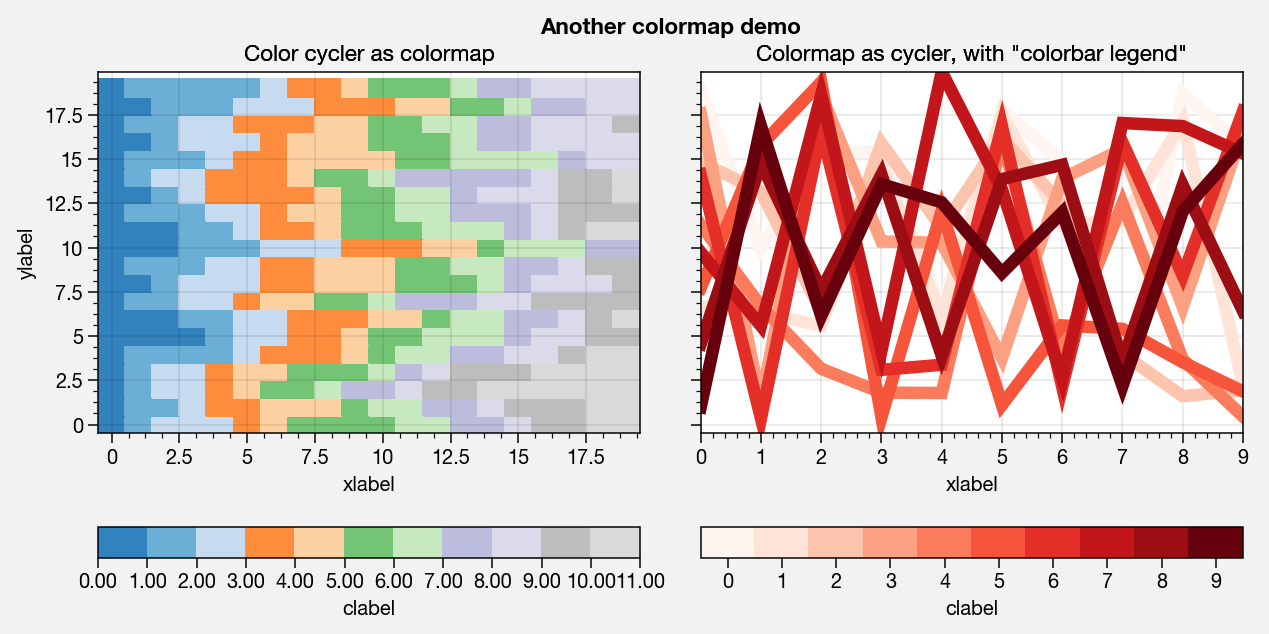
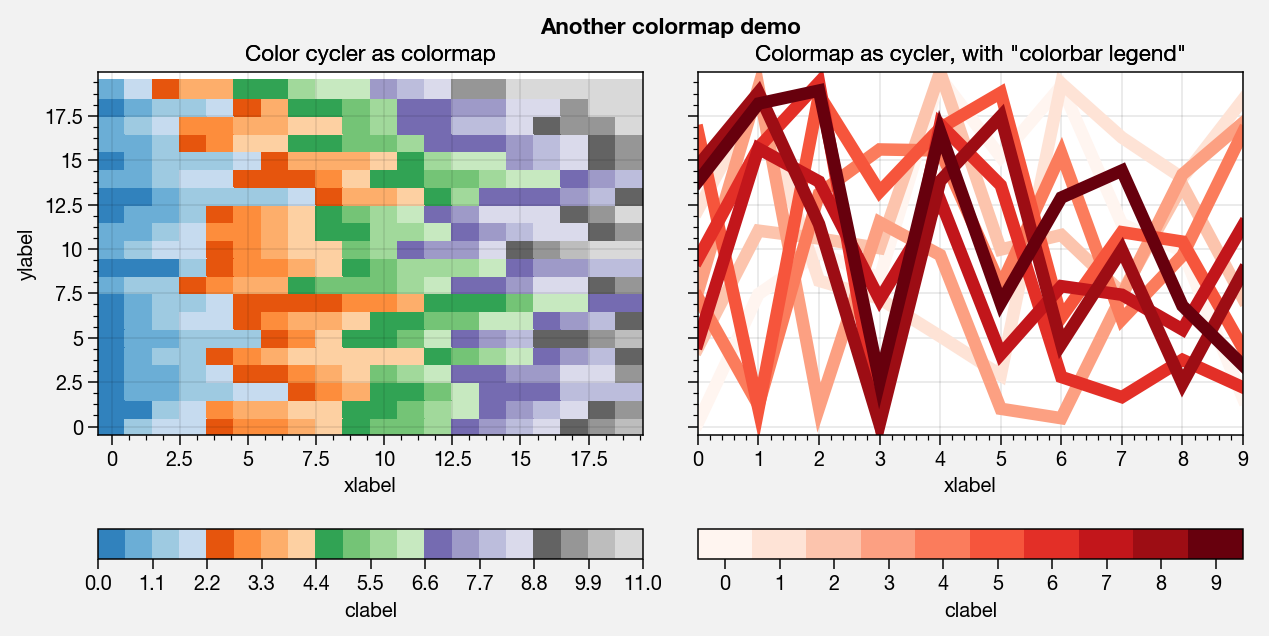
Minor bugfix, docs

diff --git a/proplot/axes.py b/proplot/axes.py
@@ -3295,7 +3295,7 @@ def colorbar_factory(ax, mappable, values=None,
         clabel=None, label=None,
         ctickminor=False, tickminor=None,
         cgrid=False, grid=None,
-        ticklocation=None, cticklocation=None, ctickdir=None, tickdir='out',
+        ticklocation=None, cticklocation=None, ctickdir=None, tickdir=None,
         cticks=None, ticks=None, clocator=None, locator=None,
         cminorticks=None, minorticks=None, cminorlocator=None, minorlocator=None,
         clocator_kw={}, locator_kw=None, cminorlocator_kw={}, minorlocator_kw=None,
@@ -3346,7 +3346,7 @@ def colorbar_factory(ax, mappable, values=None,
         sizes to match, because the `extendlength` units are *relative*.
     ctickdir, ticklocation, cticklocation
         Aliases for `tickdir`.
-    tickdir : {'out', 'in'}, optional
+    tickdir : {'bottom', 'top', 'left', 'right'}, optional
         Whether to draw tick marks pointing inside or outside.
     clabel, ctickminor, cgrid
         Aliases for `label`, `tickminor`, `grid`.
@@ -3562,7 +3562,6 @@ def colorbar_factory(ax, mappable, values=None,
     extendlength = utils.units(_default(extendlength, rc.get('colorbar.extendfull')))
     extendlength = extendlength/(scale - 2*extendlength)
     ticklocation = tickdir or ctickdir or ticklocation
-    ticklocation = {'out':'outer', 'in':'inner'}.get(ticklocation, ticklocation)
     kwargs.update({'ticks':locators[0], 'format':cformatter,
                    'ticklocation':ticklocation,
                    'extendfrac':extendlength})

diff --git a/docs/showcase.rst b/docs/showcase.rst
@@ -1754,8 +1754,8 @@ for details.
     import numpy as np
     plot.nbsetup()
     f, axs = plot.subplots(ncols=2, bottomcolorbars=[1,2], span=False, axwidth=3, aspect=1.5)
-    m = axs[0].pcolormesh(np.random.rand(20,20).cumsum(axis=1), cmap='set5', levels=np.linspace(0,11,12))
-    f.bottompanel[0].colorbar(m, label='clabel', formatter='%.2f')
+    m = axs[0].pcolormesh(np.random.rand(20,20).cumsum(axis=1), cmap='set5', levels=np.linspace(0,11,21))
+    f.bottompanel[0].colorbar(m, label='clabel', formatter='%.1f')
     lines = axs[1].plot(20*np.random.rand(10,10), cycle=('reds', 10), lw=5)
     axs.format(xlabel='xlabel', ylabel='ylabel', suptitle='Another colormap demo')
     axs[0].format(title='Color cycler as colormap')
@@ -1770,7 +1770,7 @@ for details.
 
 .. image:: showcase/showcase_116_1.png
    :width: 634px
-   :height: 317px
+   :height: 318px
 
 
 Sampling cycles and colormaps
